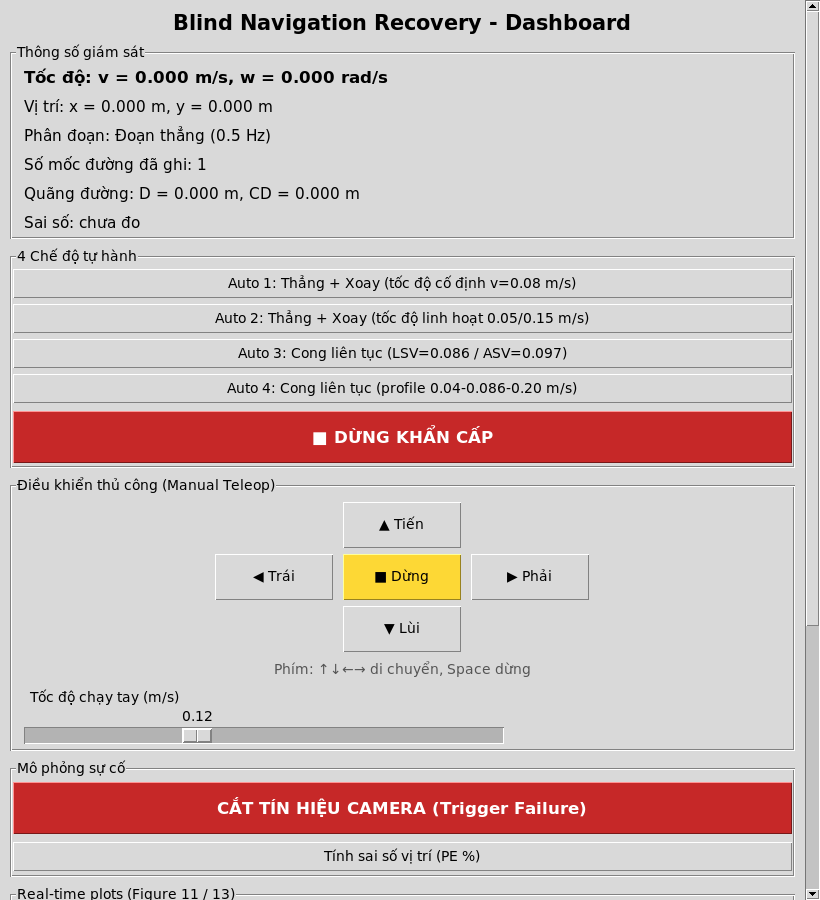
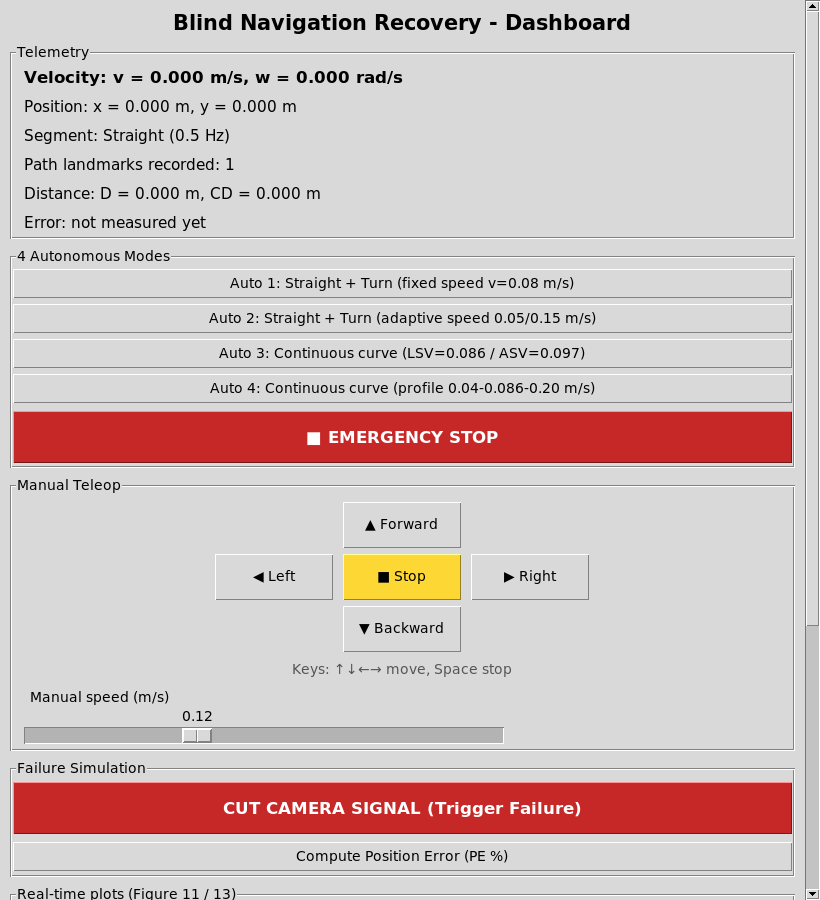
fix: localize recovery dashboard UI to English for the English manuscript
The IEEE Access manuscript is written in English, but the ROS 2 control
dashboard (and the run_gazebo_demo.sh instructions) still displayed
Vietnamese labels, which made the dashboard screenshot inconsistent with
the rest of the paper.

- Translate all dashboard labels, buttons, and message boxes from
  Vietnamese to English (telemetry, 4 autonomous modes, manual teleop,
  failure simulation, and the PE/RM result dialog).
- Update run_gazebo_demo.sh to reference the English button labels.
- Regenerate fig12_dashboard.png from the updated dashboard under Xvfb.
- Recompile DREAM-ROS2-IEEE.pdf (8 pages) with the new figure.
- Correct the stale position-error reference from the old paper's
  "equation 4 / Tables IV/VI" to the current manuscript's Equation (2).

Verified: colcon build passes; offline checks (test_auto_recovery_sim,
dream_theory_check, run_gazebo_benchmark --compare, sweep_r2_threshold,
benchmark_baselines_gazebo --mc) all reproduce the manuscript numbers.

diff --git a/src/vslam_recovery_core/src/recovery_dashboard_gui.py b/src/vslam_recovery_core/src/recovery_dashboard_gui.py
@@ -32,8 +32,8 @@ obstacles are avoided with 0.55 m centre clearance.
 
 Other controls:
   * manual teleop (buttons + arrow keys + Stop) and speed sliders;
-  * "CẮT TÍN HIỆU CAMERA (Trigger Failure)" -> /camera_failure_trigger;
-  * "Tính sai số vị trí (PE %)" -> RM and PE (equation 4 / Tables IV/VI).
+  * "CUT CAMERA SIGNAL (Trigger Failure)" -> /camera_failure_trigger;
+  * "Compute Position Error (PE %)" -> RM and PE (Equation 2).
 """
 
 import math
@@ -477,93 +477,93 @@ class DashboardApp:
                          font=('TkDefaultFont', 15, 'bold'))
         title.pack(fill='x', padx=10, pady=(8, 2))
 
-        tele = tk.LabelFrame(self.scrollable_frame, text='Thông số giám sát')
+        tele = tk.LabelFrame(self.scrollable_frame, text='Telemetry')
         tele.pack(fill='x', padx=10, pady=4)
 
-        self.lbl_vel = tk.Label(tele, text='Tốc độ: v = 0.000 m/s, w = 0.000 rad/s',
+        self.lbl_vel = tk.Label(tele, text='Velocity: v = 0.000 m/s, w = 0.000 rad/s',
                                 font=('TkDefaultFont', 12, 'bold'))
         self.lbl_vel.pack(anchor='w', **pad)
 
-        self.lbl_pose = tk.Label(tele, text='Vị trí: x = 0.000 m, y = 0.000 m',
+        self.lbl_pose = tk.Label(tele, text='Position: x = 0.000 m, y = 0.000 m',
                                  font=('TkDefaultFont', 11))
         self.lbl_pose.pack(anchor='w', **pad)
 
-        self.lbl_seg = tk.Label(tele, text='Phân đoạn: Đoạn thẳng (0.5 Hz)',
+        self.lbl_seg = tk.Label(tele, text='Segment: Straight (0.5 Hz)',
                                 font=('TkDefaultFont', 11))
         self.lbl_seg.pack(anchor='w', **pad)
 
-        self.lbl_lm = tk.Label(tele, text='Số mốc đường đã ghi: 0',
+        self.lbl_lm = tk.Label(tele, text='Path landmarks recorded: 0',
                                font=('TkDefaultFont', 11))
         self.lbl_lm.pack(anchor='w', **pad)
 
-        self.lbl_dist = tk.Label(tele, text='Quãng đường: D = 0.000 m, CD = 0.000 m',
+        self.lbl_dist = tk.Label(tele, text='Distance: D = 0.000 m, CD = 0.000 m',
                                  font=('TkDefaultFont', 11))
         self.lbl_dist.pack(anchor='w', **pad)
 
-        self.lbl_err = tk.Label(tele, text='Sai số: chưa đo',
+        self.lbl_err = tk.Label(tele, text='Error: not measured yet',
                                 font=('TkDefaultFont', 11))
         self.lbl_err.pack(anchor='w', **pad)
 
         # ---- [2] Auto-run modes + emergency stop -------------------------- #
-        modes = tk.LabelFrame(self.scrollable_frame, text='4 Chế độ tự hành')
+        modes = tk.LabelFrame(self.scrollable_frame, text='4 Autonomous Modes')
         modes.pack(fill='x', padx=10, pady=4)
 
-        tk.Button(modes, text='Auto 1: Thẳng + Xoay (tốc độ cố định v=0.08 m/s)',
+        tk.Button(modes, text='Auto 1: Straight + Turn (fixed speed v=0.08 m/s)',
                   command=lambda: self.node.start_auto_run(1),
                   height=1).pack(fill='x', pady=2)
-        tk.Button(modes, text='Auto 2: Thẳng + Xoay (tốc độ linh hoạt 0.05/0.15 m/s)',
+        tk.Button(modes, text='Auto 2: Straight + Turn (adaptive speed 0.05/0.15 m/s)',
                   command=lambda: self.node.start_auto_run(2),
                   height=1).pack(fill='x', pady=2)
-        tk.Button(modes, text='Auto 3: Cong liên tục (LSV=0.086 / ASV=0.097)',
+        tk.Button(modes, text='Auto 3: Continuous curve (LSV=0.086 / ASV=0.097)',
                   command=lambda: self.node.start_auto_run(3),
                   height=1).pack(fill='x', pady=2)
-        tk.Button(modes, text='Auto 4: Cong liên tục (profile 0.04-0.086-0.20 m/s)',
+        tk.Button(modes, text='Auto 4: Continuous curve (profile 0.04-0.086-0.20 m/s)',
                   command=lambda: self.node.start_auto_run(4),
                   height=1).pack(fill='x', pady=2)
 
-        tk.Button(modes, text='■ DỪNG KHẨN CẤP', command=self.node.emergency_stop,
+        tk.Button(modes, text='■ EMERGENCY STOP', command=self.node.emergency_stop,
                   height=2, bg='#c62828', fg='white',
                   font=('TkDefaultFont', 12, 'bold')).pack(fill='x', pady=(4, 2))
 
         # ---- [3] Manual teleop -------------------------------------------- #
-        teleop = tk.LabelFrame(self.scrollable_frame, text='Điều khiển thủ công (Manual Teleop)')
+        teleop = tk.LabelFrame(self.scrollable_frame, text='Manual Teleop')
         teleop.pack(fill='x', padx=10, pady=4)
 
         grid = tk.Frame(teleop)
         grid.pack(pady=4)
 
-        tk.Button(grid, text='▲ Tiến', width=10, height=2,
+        tk.Button(grid, text='▲ Forward', width=10, height=2,
                   command=lambda: self._teleop(+1, 0)).grid(row=0, column=1, padx=4, pady=2)
-        tk.Button(grid, text='◀ Trái', width=10, height=2,
+        tk.Button(grid, text='◀ Left', width=10, height=2,
                   command=lambda: self._teleop(0, +1)).grid(row=1, column=0, padx=4, pady=2)
-        tk.Button(grid, text='■ Dừng', width=10, height=2, bg='#fdd835',
+        tk.Button(grid, text='■ Stop', width=10, height=2, bg='#fdd835',
                   command=self.node.manual_stop).grid(row=1, column=1, padx=4, pady=2)
-        tk.Button(grid, text='▶ Phải', width=10, height=2,
+        tk.Button(grid, text='▶ Right', width=10, height=2,
                   command=lambda: self._teleop(0, -1)).grid(row=1, column=2, padx=4, pady=2)
-        tk.Button(grid, text='▼ Lùi', width=10, height=2,
+        tk.Button(grid, text='▼ Backward', width=10, height=2,
                   command=lambda: self._teleop(-1, 0)).grid(row=2, column=1, padx=4, pady=2)
 
-        tk.Label(teleop, text='Phím: ↑↓←→ di chuyển, Space dừng',
+        tk.Label(teleop, text='Keys: ↑↓←→ move, Space stop',
                  fg='#555555').pack(pady=(0, 2))
 
         # Speed slider (single control for manual + auto speed ceiling).
         self.speed_scale = tk.Scale(
             teleop, from_=0.05, to=0.25, resolution=0.01,
-            orient='horizontal', label='Tốc độ chạy tay (m/s)',
+            orient='horizontal', label='Manual speed (m/s)',
             length=480)
         self.speed_scale.set(0.12)
         self.speed_scale.pack(anchor='w', **pad)
 
         # ---- [4] Failure simulation --------------------------------------- #
-        actions = tk.LabelFrame(self.scrollable_frame, text='Mô phỏng sự cố')
+        actions = tk.LabelFrame(self.scrollable_frame, text='Failure Simulation')
         actions.pack(fill='x', padx=10, pady=4)
 
-        tk.Button(actions, text='CẮT TÍN HIỆU CAMERA (Trigger Failure)',
+        tk.Button(actions, text='CUT CAMERA SIGNAL (Trigger Failure)',
                   command=self.node.trigger_failure, height=2,
                   bg='#c62828', fg='white',
                   font=('TkDefaultFont', 12, 'bold')).pack(fill='x', pady=3)
 
-        tk.Button(actions, text='Tính sai số vị trí (PE %)',
+        tk.Button(actions, text='Compute Position Error (PE %)',
                   command=self.on_calculate_error, height=1).pack(fill='x', pady=3)
 
         # ---- [5] Real-time plots (bottom of the window) ------------------- #
@@ -634,15 +634,15 @@ class DashboardApp:
     def on_calculate_error(self):
         result = self.node.compute_error()
         if result is None:
-            messagebox.showinfo('Position error', 'Chưa có dữ liệu quãng đường đi tới (D).')
+            messagebox.showinfo('Position error', 'No forward distance (D) data yet.')
             return
         d_forward, d_recovery, pe, rm = result
-        text = (f'D (đi tới)   = {d_forward:.3f} m\n'
-                f'CD (quay lui) = {d_recovery:.3f} m\n'
-                f'RM (còn lại)  = {rm:.3f} m\n'
-                f'PE (sai số %) = {pe:.3f} %')
-        self.lbl_err.config(text=f'Sai số: PE = {pe:.3f} %, RM = {rm:.3f} m')
-        messagebox.showinfo('Sai số vị trí (Công thức 4 / Bảng IV)', text)
+        text = (f'D (forward)    = {d_forward:.3f} m\n'
+                f'CD (return)    = {d_recovery:.3f} m\n'
+                f'RM (remaining) = {rm:.3f} m\n'
+                f'PE (error %)   = {pe:.3f} %')
+        self.lbl_err.config(text=f'Error: PE = {pe:.3f} %, RM = {rm:.3f} m')
+        messagebox.showinfo('Position Error (Equation 2)', text)
 
     def on_close(self):
         self.node.stop_auto_run()
@@ -705,15 +705,15 @@ class DashboardApp:
             self._last_yaml_read = now
 
         seg = self.node.segment_state()
-        seg_text = ('Đoạn cong (1.0 Hz)' if seg == 'curved' else 'Đoạn thẳng (0.5 Hz)')
+        seg_text = ('Curved (1.0 Hz)' if seg == 'curved' else 'Straight (0.5 Hz)')
         self.lbl_vel.config(
-            text=f'Tốc độ: v = {self.node.v:.3f} m/s, w = {self.node.w:.3f} rad/s')
+            text=f'Velocity: v = {self.node.v:.3f} m/s, w = {self.node.w:.3f} rad/s')
         self.lbl_pose.config(
-            text=f'Vị trí: x = {self.node.cur_x:.3f} m, y = {self.node.cur_y:.3f} m')
-        self.lbl_seg.config(text=f'Phân đoạn: {seg_text}')
-        self.lbl_lm.config(text=f'Số mốc đường đã ghi: {self._landmarks}')
+            text=f'Position: x = {self.node.cur_x:.3f} m, y = {self.node.cur_y:.3f} m')
+        self.lbl_seg.config(text=f'Segment: {seg_text}')
+        self.lbl_lm.config(text=f'Path landmarks recorded: {self._landmarks}')
         self.lbl_dist.config(
-            text=f'Quãng đường: D = {self.node.forward_dist:.3f} m, '
+            text=f'Distance: D = {self.node.forward_dist:.3f} m, '
                  f'CD = {self.node.recovery_dist:.3f} m')
 
         # Append a sample (~20 Hz) and refresh the plots.
@@ -740,7 +740,7 @@ class DashboardApp:
                 if result is not None:
                     _, _, pe, rm = result
                     self.lbl_err.config(
-                        text=f'Sai số: PE = {pe:.3f} %, RM = {rm:.3f} m')
+                        text=f'Error: PE = {pe:.3f} %, RM = {rm:.3f} m')
                     self.node.get_logger().info(
                         f'Auto position error: PE={pe:.3f}% RM={rm:.3f}m')
         else:
